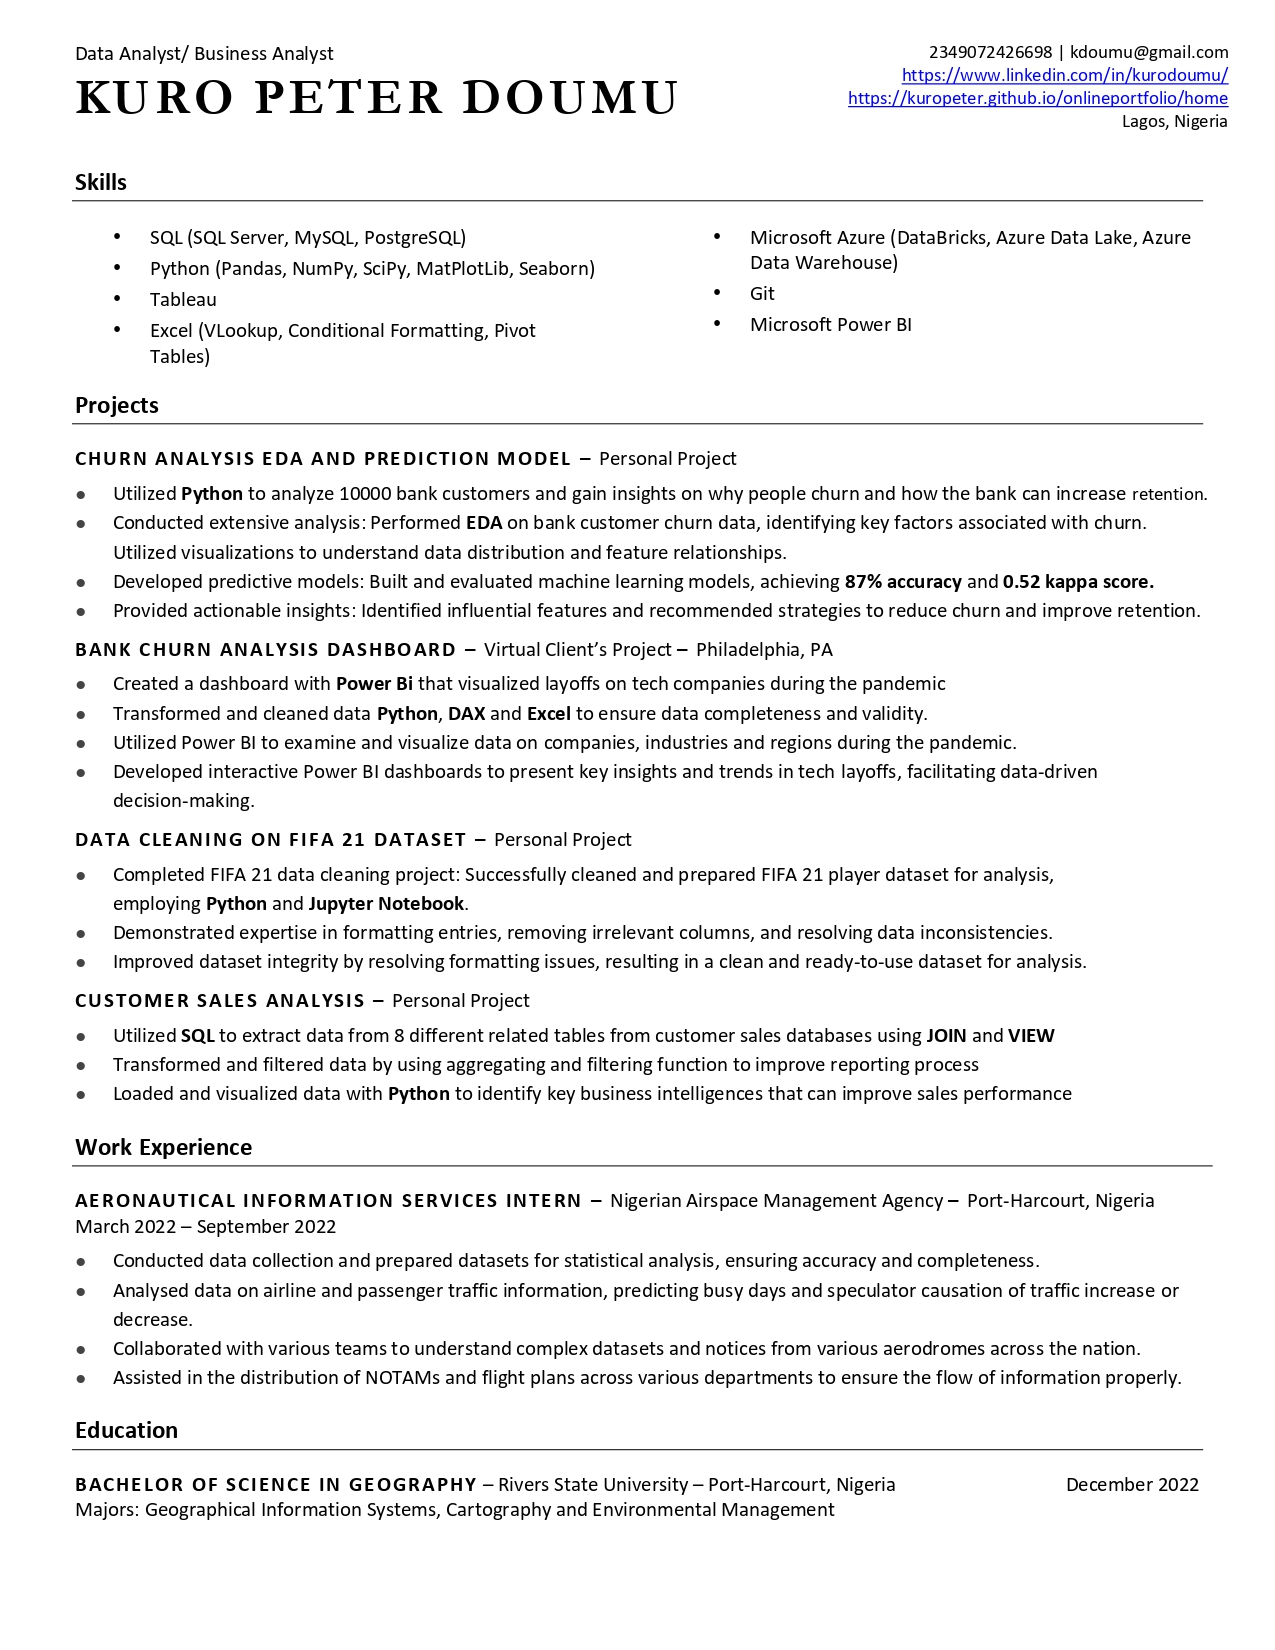
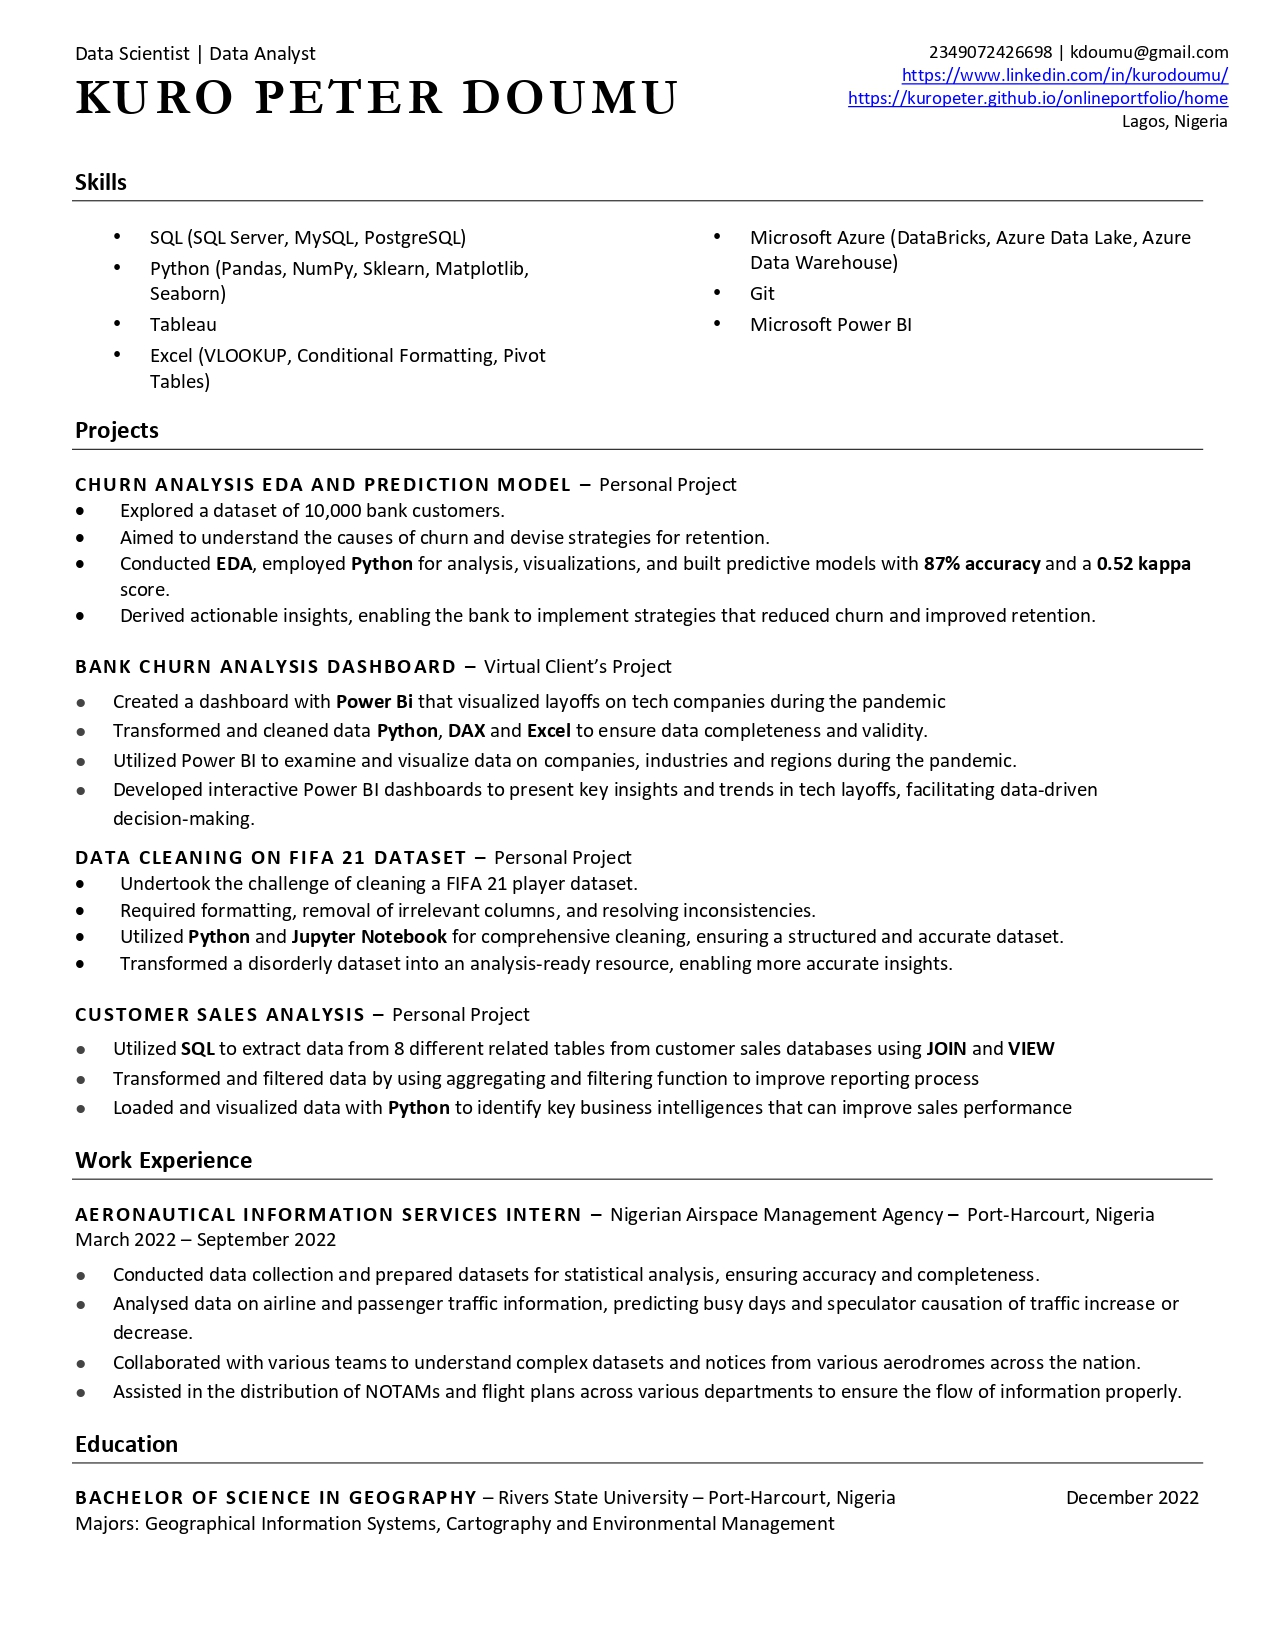
Changed Analyst to Scientist

diff --git a/aboutme.html b/aboutme.html
@@ -47,13 +47,13 @@
 									<span class="date">November 25, 2022</span>
 									<h1>About Me<br/>
 									</h1>
-									<p>Welcome to my data analytics portfolio website! I'm Kuro Peter Doumu, a passionate data analyst specializing in transforming raw data into actionable insights. With expertise in MS Excel, Python, SQL, Power BI, and Tableau, I excel at uncovering patterns and delivering data-driven solutions.</p>
+									<p>Welcome to my Data Science portfolio website! I'm Kuro Peter Doumu, a passionate data scientist specializing in transforming raw data into actionable insights. With expertise in MS Excel, Python, SQL, Power BI, and Tableau, I excel at uncovering patterns and delivering data-driven solutions.</p>
 								</header>
 								<div class="image main"><img src="images/pic01.jpg" alt="" /></div>
 								<p>Throughout my career, I have successfully utilized my skills in statistical analysis, data visualization, and predictive modeling to optimize processes and enhance business outcomes. With experience across diverse industries like marketing, finance, and healthcare, I am an active learner and adapt quickly in order to provide valuable insights. 
 									<br> I really enjoy data storytelling. Using tools like Power BI and Tableau, I have created compelling dashboards and reports that effectively communicate complex information in a concise and understandable manner.</p>
 								<p>In addition to my technical expertise, I love travelling and enjoy immersing myself in different cultures and traditions. When I'm not analyzing data, you can find me engrossed in a good book or cheering for my favorite sports teams/players, including football, basketball, and tennis.</p>
-								<p>Thank you for visiting my portfolio website. I invite you to explore my projects, showcasing my ability to analyze complex datasets, extract meaningful insights, and present them visually. I look forward to connecting with you and discussing how I can contribute to your organization's data-driven success.</p>
+								<p>Thank you for visiting my portfolio website. I invite you to explore my projects, showcasing my ability to analyze complex datasets, extract meaningful insights, and present them visually. I look forward to connecting with you and discussing how I can contribute to your organization's success through data informed decisions.</p>
 								<a href="images/Bayesian+Homework+.pdf" download="" class="btn btn2" target="_blank">Download CV</a>
 							</section>
 

diff --git a/home.html b/home.html
@@ -19,7 +19,7 @@
 
 				<!-- Intro -->
 					<div id="intro">
-						<h1>Data Analytics<br />
+						<h1>Data Science<br />
 						Portfolio</h1>
 						<p>Follow me on <a href="https://www.linkedin.com/in/kurodoumu/" target=”_blank”>Linkedin</a> and on <a href="https://twitter.com/KuroDoumu" target=”_blank”>Twitter</a><br />
 						 </p>
